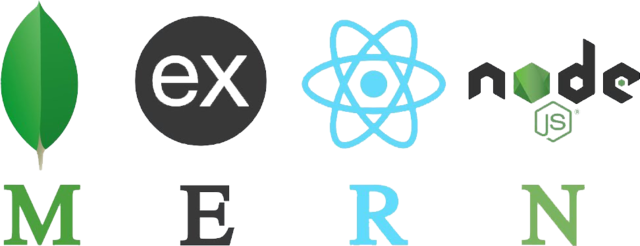
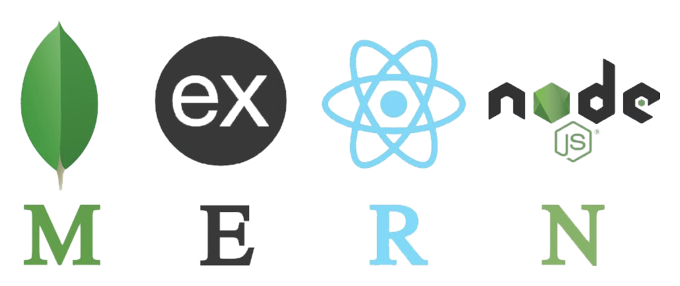
welcome mern

diff --git a/pages/resume.html b/pages/resume.html
@@ -138,7 +138,7 @@
                 <img src="../pics/about/jest_logo.gif" class='py-3 col-sm-2 img-fluid img-square'
                     alt="Jest Logo.">
             </div>
-            <div class="container-fluid text-center my-4">
+            <div class="container-fluid text-center">
                 <img class='img-fluid' src="../pics/about/mernStackTrans.png" style='width:30rem;' alt="Mongo DB Express NodeJS ReactJS technology stack.">
             </div>
         </div>

diff --git a/js/welcome.js b/js/welcome.js
@@ -57,7 +57,9 @@ const myWelcome = `
             </div>
         </div>
 
-
+        <div class="myArticles container-fluid text-center mt-4">
+            <img class='img-fluid bg-black rounded my-auto' src="../pics/about/mernStackTrans.png" style='width:30rem;' alt="Mongo DB Express NodeJS ReactJS technology stack.">
+        </div>
 
     </div>
 
